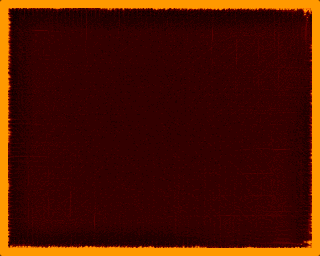
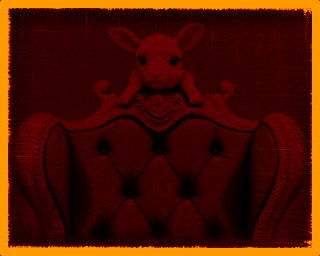
Evil-er game over screen

diff --git a/src/assets.h b/src/assets.h
@@ -119,34 +119,34 @@
 #define R_levelQ_0_nxi_zx0 { 15163, 1221, 69 }
 #define R_levelG_4_nxi_zx0 { 8192, 3471, 70 }
 #define R_levelD_1_nxi_zx0 { 11663, 3469, 70 }
-#define R_gameOver_7_nxi_zx0 { 15132, 1180, 70 }
+#define R_gameOver_1_nxi_zx0 { 15132, 1240, 70 }
 #define R_levelD_2_nxi_zx0 { 8192, 3469, 71 }
 #define R_levelD_9_nxi_zx0 { 11661, 3467, 71 }
-#define R_levelO_4_nxi_zx0 { 15128, 1173, 71 }
+#define R_gameOver_6_nxi_zx0 { 15128, 1253, 71 }
 #define R_levelCompleteG_0_nxi_zx0 { 8192, 3461, 72 }
 #define R_levelM_9_nxi_zx0 { 11653, 3460, 72 }
-#define R_gameOver_1_nxi_zx0 { 15113, 1172, 72 }
+#define R_gameOver_3_nxi_zx0 { 15113, 1226, 72 }
 #define R_levelCompleteM_0_nxi_zx0 { 8192, 3442, 73 }
 #define R_levelCompleteA_8_nxi_zx0 { 11634, 3440, 73 }
 #define R_levelO_2_nxi_zx0 { 15074, 1299, 73 }
 #define R_levelCompleteJ_8_nxi_zx0 { 8192, 3440, 74 }
 #define R_levelCompleteH_5_nxi_zx0 { 11632, 3439, 74 }
-#define R_levelN_3_nxi_zx0 { 15071, 1172, 74 }
+#define R_gameOver_9_nxi_zx0 { 15071, 1214, 74 }
 #define R_levelM_3_nxi_zx0 { 8192, 3437, 75 }
 #define R_levelG_5_nxi_zx0 { 11629, 3430, 75 }
 #define R_levelH_8_nxi_zx0 { 15059, 1318, 75 }
 #define R_levelCompleteJ_0_nxi_zx0 { 8192, 3424, 76 }
 #define R_levelG_6_nxi_zx0 { 11616, 3422, 76 }
-#define R_levelQ_4_nxi_zx0 { 15038, 1318, 76 }
+#define R_gameOver_4_nxi_zx0 { 15038, 1337, 76 }
 #define R_levelM_5_nxi_zx0 { 8192, 3412, 77 }
 #define R_levelCompleteL_8_nxi_zx0 { 11604, 3409, 77 }
-#define R_levelO_1_nxi_zx0 { 15013, 1171, 77 }
+#define R_levelQ_4_nxi_zx0 { 15013, 1318, 77 }
 #define R_levelCompleteP_0_nxi_zx0 { 8192, 3409, 78 }
 #define R_levelCompleteO_8_nxi_zx0 { 11601, 3407, 78 }
-#define R_levelN_2_nxi_zx0 { 15008, 1121, 78 }
+#define R_gameOver_7_nxi_zx0 { 15008, 1204, 78 }
 #define R_levelCompleteQ_0_nxi_zx0 { 8192, 3405, 79 }
 #define R_levelCompleteK_0_nxi_zx0 { 11597, 3394, 79 }
-#define R_levelN_4_nxi_zx0 { 14991, 1099, 79 }
+#define R_gameOver_5_nxi_zx0 { 14991, 1389, 79 }
 #define R_levelCompleteA_0_nxi_zx0 { 8192, 3388, 80 }
 #define R_levelB_3_nxi_zx0 { 11580, 3385, 80 }
 #define R_heightmapN_hm_zx0 { 14965, 1404, 80 }
@@ -155,10 +155,10 @@
 #define R_levelH_9_nxi_zx0 { 14950, 1433, 81 }
 #define R_levelG_7_nxi_zx0 { 8192, 3365, 82 }
 #define R_levelI_4_nxi_zx0 { 11557, 3365, 82 }
-#define R_gameOver_8_nxi_zx0 { 14922, 1440, 82 }
+#define R_levelN_1_nxi_zx0 { 14922, 1426, 82 }
 #define R_levelCompleteD_0_nxi_zx0 { 8192, 3361, 83 }
 #define R_levelCompleteC_0_nxi_zx0 { 11553, 3356, 83 }
-#define R_levelN_1_nxi_zx0 { 14909, 1426, 83 }
+#define R_levelO_5_nxi_zx0 { 14909, 1423, 83 }
 #define R_levelCompleteF_0_nxi_zx0 { 8192, 3349, 84 }
 #define R_levelM_2_nxi_zx0 { 11541, 3338, 84 }
 #define R_levelB_0_nxi_zx0 { 14879, 1503, 84 }
@@ -167,13 +167,13 @@
 #define R_heightmapJ_hm_zx0 { 14854, 1522, 85 }
 #define R_levelCompleteP_8_nxi_zx0 { 8192, 3322, 86 }
 #define R_levelB_7_nxi_zx0 { 11514, 3319, 86 }
-#define R_levelJ_0_nxi_zx0 { 14833, 1515, 86 }
+#define R_gameOver_8_nxi_zx0 { 14833, 1549, 86 }
 #define R_levelCompleteB_0_nxi_zx0 { 8192, 3318, 87 }
 #define R_levelCompleteL_0_nxi_zx0 { 11510, 3313, 87 }
-#define R_heightmapL_hm_zx0 { 14823, 1512, 87 }
+#define R_levelJ_0_nxi_zx0 { 14823, 1515, 87 }
 #define R_levelM_1_nxi_zx0 { 8192, 3312, 88 }
 #define R_levelM_4_nxi_zx0 { 11504, 3305, 88 }
-#define R_info_9_nxi_zx0 { 14809, 1497, 88 }
+#define R_heightmapL_hm_zx0 { 14809, 1512, 88 }
 #define R_levelL_9_nxi_zx0 { 8192, 3302, 89 }
 #define R_levelI_5_nxi_zx0 { 11494, 3301, 89 }
 #define R_levelP_4_nxi_zx0 { 14795, 1587, 89 }
@@ -182,7 +182,7 @@
 #define R_levelP_3_nxi_zx0 { 14781, 1584, 90 }
 #define R_levelCompleteL_9_nxi_zx0 { 8192, 3290, 91 }
 #define R_levelI_3_nxi_zx0 { 11482, 3290, 91 }
-#define R_info_0_nxi_zx0 { 14772, 1480, 91 }
+#define R_info_9_nxi_zx0 { 14772, 1497, 91 }
 #define R_levelCompleteK_8_nxi_zx0 { 8192, 3279, 92 }
 #define R_levelB_6_nxi_zx0 { 11471, 3272, 92 }
 #define R_levelM_0_nxi_zx0 { 14743, 1636, 92 }
@@ -340,11 +340,10 @@
 #define R_levelCompleteQ_3_nxi_zx0 { 8192, 2484, 139 }
 #define R_levelCompleteL_7_nxi_zx0 { 10676, 2482, 139 }
 #define R_levelCompleteL_5_nxi_zx0 { 13158, 2481, 139 }
-#define R_gameOver_4_nxi_zx0 { 15639, 689, 139 }
+#define R_levelH_4_nxi_zx0 { 15639, 370, 139 }
 #define R_levelCompleteM_5_nxi_zx0 { 8192, 2480, 140 }
 #define R_levelCompleteG_5_nxi_zx0 { 10672, 2478, 140 }
 #define R_levelCompleteA_2_nxi_zx0 { 13150, 2476, 140 }
-#define R_levelH_4_nxi_zx0 { 15626, 370, 140 }
 #define R_levelCompleteF_3_nxi_zx0 { 8192, 2475, 141 }
 #define R_levelCompleteO_2_nxi_zx0 { 10667, 2475, 141 }
 #define R_levelCompleteI_2_nxi_zx0 { 13142, 2474, 141 }
@@ -352,7 +351,6 @@
 #define R_levelCompleteB_5_nxi_zx0 { 8192, 2470, 142 }
 #define R_levelCompleteM_3_nxi_zx0 { 10662, 2470, 142 }
 #define R_levelCompleteD_3_nxi_zx0 { 13132, 2467, 142 }
-#define R_gameOver_3_nxi_zx0 { 15599, 775, 142 }
 #define R_levelCompleteQ_5_nxi_zx0 { 8192, 2467, 143 }
 #define R_levelCompleteA_4_nxi_zx0 { 10659, 2465, 143 }
 #define R_levelCompleteD_2_nxi_zx0 { 13124, 2465, 143 }
@@ -364,7 +362,6 @@
 #define R_levelCompleteF_5_nxi_zx0 { 8192, 2456, 145 }
 #define R_levelCompleteA_3_nxi_zx0 { 10648, 2452, 145 }
 #define R_levelCompleteN_5_nxi_zx0 { 13100, 2450, 145 }
-#define R_gameOver_5_nxi_zx0 { 15550, 833, 145 }
 #define R_levelCompleteI_3_nxi_zx0 { 8192, 2449, 146 }
 #define R_levelCompleteI_5_nxi_zx0 { 10641, 2448, 146 }
 #define R_levelCompleteK_3_nxi_zx0 { 13089, 2448, 146 }
@@ -383,35 +380,35 @@
 #define R_levelCompleteA_6_nxi_zx0 { 8192, 2367, 150 }
 #define R_levelCompleteM_6_nxi_zx0 { 10559, 2367, 150 }
 #define R_levelJ_6_nxi_zx0 { 12926, 2365, 150 }
-#define R_gameOver_9_nxi_zx0 { 15291, 1039, 150 }
+#define R_levelN_8_nxi_zx0 { 15291, 1024, 150 }
 #define R_levelCompleteA_7_nxi_zx0 { 8192, 2362, 151 }
 #define R_levelCompleteK_6_nxi_zx0 { 10554, 2353, 151 }
 #define R_levelCompleteP_6_nxi_zx0 { 12907, 2351, 151 }
-#define R_levelN_6_nxi_zx0 { 15258, 1096, 151 }
+#define R_levelN_2_nxi_zx0 { 15258, 1121, 151 }
 #define R_levelCompleteG_6_nxi_zx0 { 8192, 2349, 152 }
 #define R_levelCompleteM_7_nxi_zx0 { 10541, 2349, 152 }
 #define R_levelCompleteQ_6_nxi_zx0 { 12890, 2348, 152 }
-#define R_levelN_8_nxi_zx0 { 15238, 1024, 152 }
+#define R_gameOver_0_nxi_zx0 { 15238, 1144, 152 }
 #define R_levelCompleteL_6_nxi_zx0 { 8192, 2344, 153 }
 #define R_levelCompleteF_6_nxi_zx0 { 10536, 2342, 153 }
 #define R_levelCompleteN_6_nxi_zx0 { 12878, 2341, 153 }
-#define R_heightmapP_hm_zx0 { 15219, 1021, 153 }
+#define R_levelN_4_nxi_zx0 { 15219, 1099, 153 }
 #define R_levelCompleteO_6_nxi_zx0 { 8192, 2332, 154 }
 #define R_levelCompleteI_6_nxi_zx0 { 10524, 2324, 154 }
 #define R_levelJ_7_nxi_zx0 { 12848, 2323, 154 }
-#define R_levelI_0_nxi_zx0 { 15171, 1018, 154 }
+#define R_levelO_4_nxi_zx0 { 15171, 1173, 154 }
 #define R_info_8_nxi_zx0 { 8192, 2309, 155 }
 #define R_levelCompleteK_7_nxi_zx0 { 10501, 2283, 155 }
 #define R_levelK_0_nxi_zx0 { 12784, 2259, 155 }
-#define R_levelH_0_nxi_zx0 { 15043, 1017, 155 }
+#define R_levelN_3_nxi_zx0 { 15043, 1172, 155 }
 #define R_levelCompleteG_7_nxi_zx0 { 8192, 2249, 156 }
 #define R_info_2_nxi_zx0 { 10441, 2242, 156 }
 #define R_levelCompleteD_7_nxi_zx0 { 12683, 2238, 156 }
-#define R_levelO_5_nxi_zx0 { 14921, 1423, 156 }
+#define R_levelO_1_nxi_zx0 { 14921, 1171, 156 }
 #define R_levelJ_2_nxi_zx0 { 8192, 2236, 157 }
 #define R_info_3_nxi_zx0 { 10428, 2232, 157 }
 #define R_levelA_0_nxi_zx0 { 12660, 2214, 157 }
-#define R_levelO_0_nxi_zx0 { 14874, 998, 157 }
+#define R_info_0_nxi_zx0 { 14874, 1480, 157 }
 #define R_levelCompleteF_7_nxi_zx0 { 8192, 2214, 158 }
 #define R_levelCompleteE_7_nxi_zx0 { 10406, 2210, 158 }
 #define R_levelQ_8_nxi_zx0 { 12616, 2092, 158 }
@@ -423,12 +420,15 @@
 #define R_levelQ_9_nxi_zx0 { 8192, 1941, 160 }
 #define R_levelO_8_nxi_zx0 { 10133, 1935, 160 }
 #define R_levelP_5_nxi_zx0 { 12068, 1618, 160 }
-#define R_levelH_1_nxi_zx0 { 13686, 997, 160 }
-#define R_gameOver_0_nxi_zx0 { 14683, 969, 160 }
-#define R_heightmapB_hm_zx0 { 8192, 936, 161 }
-#define R_gameOver_2_nxi_zx0 { 9128, 932, 161 }
-#define R_gameOver_6_nxi_zx0 { 10060, 930, 161 }
-#define R_levelH_7_nxi_zx0 { 10990, 904, 161 }
-#define R_levelN_7_nxi_zx0 { 11894, 875, 161 }
+#define R_levelN_6_nxi_zx0 { 13686, 1096, 160 }
+#define R_heightmapP_hm_zx0 { 14782, 1021, 160 }
+#define R_levelI_0_nxi_zx0 { 8192, 1018, 161 }
+#define R_levelH_0_nxi_zx0 { 9210, 1017, 161 }
+#define R_levelO_0_nxi_zx0 { 10227, 998, 161 }
+#define R_levelH_1_nxi_zx0 { 11225, 997, 161 }
+#define R_gameOver_2_nxi_zx0 { 12222, 984, 161 }
+#define R_heightmapB_hm_zx0 { 13206, 936, 161 }
+#define R_levelH_7_nxi_zx0 { 14142, 904, 161 }
+#define R_levelN_7_nxi_zx0 { 15046, 875, 161 }
 
 #endif

diff --git a/src/gameover.c b/src/gameover.c
@@ -25,7 +25,7 @@ static void loadGameOverScreen(void) __z88dk_fastcall {
   fadePaletteUp(&gameOverInfo.palette, 1);
 }
 
-#define center 160
+#define center 159
 
 void gameOverLoop(void) __z88dk_fastcall {
   resetBonuses();
@@ -50,7 +50,7 @@ void gameOverLoop(void) __z88dk_fastcall {
   word x = center - ((4*9) >> 1);
   byte hiScoreBufPos = 0;
   byte hiScoreBuf[11] = "          ";
-  word top = 53;
+  word top = 64;
 
   print("GAME OVER", x, top, HUD_ORANGE);
   top += 20;
